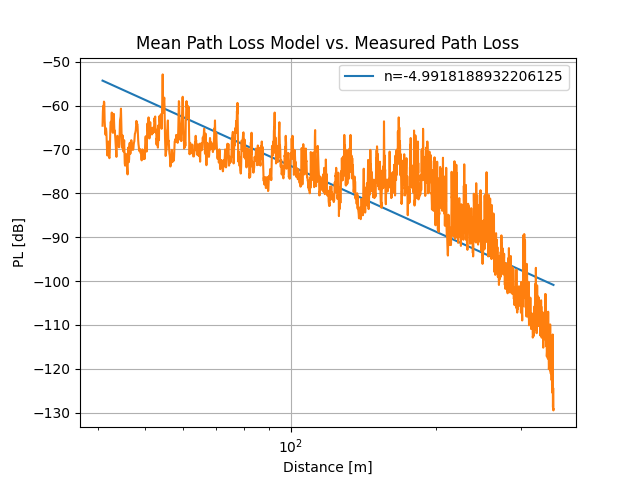
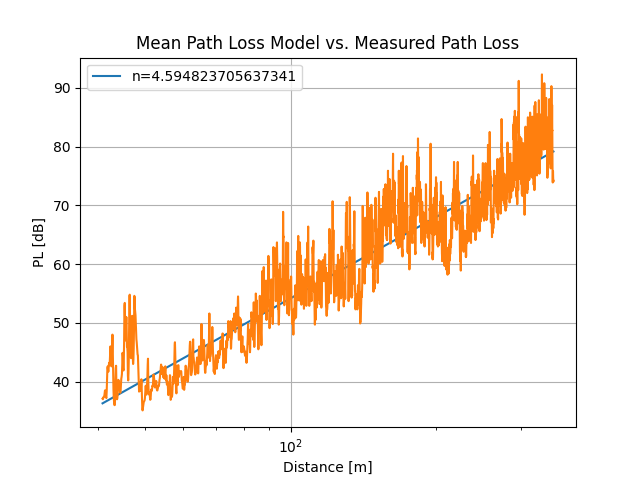
Fresnel fixed

diff --git a/dataprocess.py b/dataprocess.py
@@ -127,7 +127,7 @@ def small_scale_dense(measuredRx_df, time_s):
     logging.info(f"Median: {np.median(max_dB)} dB")
 
     plt.plot(t, max_dB)
-    plt.xlabel('time (s)')
+    plt.xlabel('Time (s)')
     plt.ylabel('Measured RSS (dB)')
     plt.title('Dense scenario')
     plt.grid()
@@ -280,10 +280,15 @@ def small_scale_static(data, time_s):
     plt.savefig('figures/Static_scenario3')
     plt.show()
 
-def large_scale(name,measuredRx_df, time_df, distance, d_start=20):
+def large_scale(name,measuredRx_df, time_df, distance, d_start=20, flip=0):
     max_dB = list()
     for row in measuredRx_df.iterrows():
         max_dB.append(max(row[1]))
+
+    #pokud jdmeme k antene-chceme odriznout to u anteny, ne na konci-proto je tu ten flip
+    if(flip==1):
+        max_dB=np.flip(max_dB)
+
     distances = np.linspace(1, distance, time_df.shape[1])[:len(max_dB)]
     start = (d_start * len(distances) // distance)
     distances = distances[start:]
@@ -406,10 +411,10 @@ if __name__ == '__main__':
     terronska_up_dist = 350  # meters
 
     logging.info("Large Scale - Partyzanu nahoru")
-    large_scale("partyzanu_nahoru", partyzanu_up_data, partyzanu_up_time, partyzanu_up_dist, d_start=40)
+    large_scale("partyzanu_nahoru", partyzanu_up_data, partyzanu_up_time, partyzanu_up_dist, d_start=40,flip=1)
 
     logging.info("Large Scale - Terronska nahoru")
-    large_scale("terronska_nahoru", terronska_up_data, terronska_up_time, terronska_up_dist, d_start=40)
+    large_scale("terronska_nahoru", terronska_up_data, terronska_up_time, terronska_up_dist, d_start=40,flip=1)
 
 
     #MERENI UNIKU
